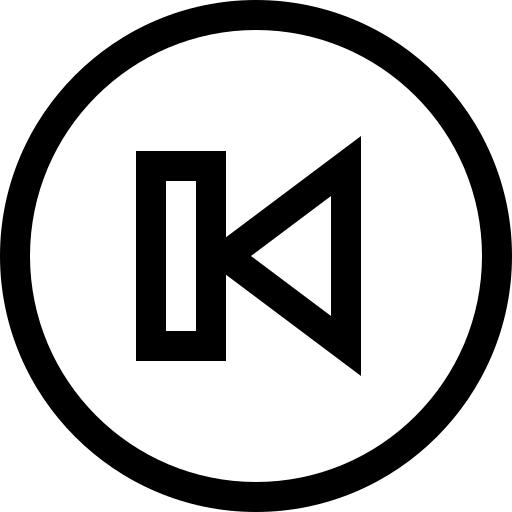
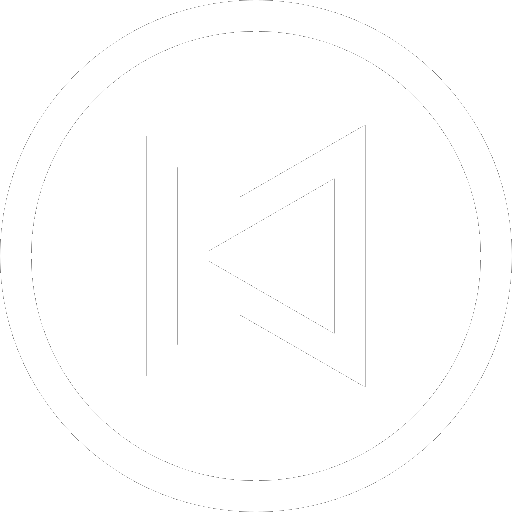
Is now dark mode

Changed region(s): [[0.0, 0.0, 1.0, 1.0], [0.25, 0.25, 0.7188, 0.75]]

diff --git a/src/view/css/application.css b/src/view/css/application.css
@@ -5,6 +5,7 @@
 	-fx-background-insets: 8.0px;
 	-fx-border-color: black;
 	-fx-border-radius: 4.0px;
+	-fx-background-radius: 4px;
 }
 
 .margin-8-no-border {
@@ -16,9 +17,68 @@
 .button-icon {
 	-fx-background-color: rgba(0.0,0.0,0.0,0.0);
 	-fx-border-color: rgba(0.0,0.0,0.0,0.0);
-	-fx-padding: 13.0px;
+	-fx-padding: 0px;
 }
 
 .button-icon:hover {
 	-fx-cursor: hand;
+}
+
+/*
+ * This is an adjustment of the original modena.css for a consistent dark theme.
+ * Original modena.css here: https://gist.github.com/maxd/63691840fc372f22f470.
+ * 
+ * Source: https://github.com/joffrey-bion/javafx-themes/blob/master/css/modena_dark.css
+ */
+
+/* Redefine base colors */
+.root {
+    -fx-base: rgb(50, 50, 50);
+    -fx-background: rgb(50, 50, 50);
+
+    /* make controls (buttons, thumb, etc.) slightly lighter */
+    -fx-color: derive(-fx-base, 10%);
+
+    /* text fields and table rows background */
+    -fx-control-inner-background: rgb(20, 20, 20);
+    /* version of -fx-control-inner-background for alternative rows */
+    -fx-control-inner-background-alt: derive(-fx-control-inner-background, 2.5%);
+
+    /* text colors depending on background's brightness */
+    -fx-light-text-color: rgb(220, 220, 220);
+    -fx-mid-text-color: rgb(100, 100, 100);
+    -fx-dark-text-color: rgb(20, 20, 20);
+
+    /* A bright blue for highlighting/accenting objects.  For example: selected
+     * text; selected items in menus, lists, trees, and tables; progress bars */
+    -fx-accent: rgb(0, 80, 100);
+
+    /* color of non-focused yet selected elements */
+    -fx-selection-bar-non-focused: rgb(50, 50, 50);
+}
+
+/* Fix derived prompt color for text fields */
+.text-input {
+    -fx-prompt-text-fill: derive(-fx-control-inner-background, +50%);
+}
+
+/* Keep prompt invisible when focused (above color fix overrides it) */
+.text-input:focused {
+    -fx-prompt-text-fill: transparent;
+}
+
+/* Fix scroll bar buttons arrows colors */
+.scroll-bar > .increment-button > .increment-arrow,
+.scroll-bar > .decrement-button > .decrement-arrow {
+    -fx-background-color: -fx-mark-highlight-color, rgb(220, 220, 220);
+}
+
+.scroll-bar > .increment-button:hover > .increment-arrow,
+.scroll-bar > .decrement-button:hover > .decrement-arrow {
+    -fx-background-color: -fx-mark-highlight-color, rgb(240, 240, 240);
+}
+
+.scroll-bar > .increment-button:pressed > .increment-arrow,
+.scroll-bar > .decrement-button:pressed > .decrement-arrow {
+    -fx-background-color: -fx-mark-highlight-color, rgb(255, 255, 255);
 }

diff --git a/src/view/MusicPanel.java b/src/view/MusicPanel.java
@@ -50,7 +50,7 @@ public class MusicPanel extends BorderPane {
 		Label labelTimeIndicator = new Label("00:00 / 00:00");
 		
 		ProgressBar progressBar = new ProgressBar();
-		progressBar.setPrefWidth(430);
+		progressBar.setPrefWidth(410);
 		progressBar.setProgress(0);
 		
 		References.labelTimeIndicator = labelTimeIndicator;
@@ -72,6 +72,8 @@ public class MusicPanel extends BorderPane {
 	private Node createBottom() {
 		GridPane grid = new GridPane();
 		
+		GridPane checkBoxPane = new GridPane();
+		
 		CheckBox cbShuffle = new CheckBox("Shuffle");
 		cbShuffle.getStyleClass().add("margin-8-no-border");
 		
@@ -81,11 +83,14 @@ public class MusicPanel extends BorderPane {
 		References.checkBoxShuffle = cbShuffle;
 		References.checkBoxRepeat = cbRepeat;
 		
+		checkBoxPane.add(cbShuffle, 1, 1);
+		checkBoxPane.add(cbRepeat, 1, 2);
+		
 		// Buttons
 		Button bPrev = new Button();
 		ImageView imageViewPrev = new ImageView(new Image(MusicPanel.class.getResourceAsStream("../ressource/img/previous.png")));
-		imageViewPrev.setFitHeight(32);
-		imageViewPrev.setFitWidth(32);
+		imageViewPrev.setFitHeight(50);
+		imageViewPrev.setFitWidth(50);
 		imageViewPrev.setPreserveRatio(true);
 		bPrev.setGraphic(imageViewPrev);
 		bPrev.getStyleClass().addAll("margin-8", "button-icon");
@@ -93,26 +98,18 @@ public class MusicPanel extends BorderPane {
 		
 		Button bPlay = new Button();
 		ImageView imageViewPlay = new ImageView(new Image(MusicPanel.class.getResourceAsStream("../ressource/img/play.png")));
-		imageViewPlay.setFitHeight(32);
-		imageViewPlay.setFitWidth(32);
+		imageViewPlay.setFitHeight(50);
+		imageViewPlay.setFitWidth(50);
 		imageViewPlay.setPreserveRatio(true);
 		bPlay.setGraphic(imageViewPlay);
 		bPlay.getStyleClass().addAll("margin-8", "button-icon");
 		bPlay.setOnAction(new PlayActionHandler());
-		
-		Button bPause = new Button();
-		ImageView imageViewPause = new ImageView(new Image(MusicPanel.class.getResourceAsStream("../ressource/img/pause.png")));
-		imageViewPause.setFitHeight(32);
-		imageViewPause.setFitWidth(32);
-		imageViewPause.setPreserveRatio(true);
-		bPause.setGraphic(imageViewPause);
-		bPause.getStyleClass().addAll("margin-8", "button-icon");
-		bPause.setOnAction(new PauseActionHandler());
+		References.bPlay = bPlay;
 		
 		Button bNext = new Button();
 		ImageView imageViewNext = new ImageView(new Image(MusicPanel.class.getResourceAsStream("../ressource/img/next.png")));
-		imageViewNext.setFitHeight(32);
-		imageViewNext.setFitWidth(32);
+		imageViewNext.setFitHeight(50);
+		imageViewNext.setFitWidth(50);
 		imageViewNext.setPreserveRatio(true);
 		bNext.setGraphic(imageViewNext);
 		bNext.getStyleClass().addAll("margin-8", "button-icon");
@@ -126,17 +123,15 @@ public class MusicPanel extends BorderPane {
 		References.volumeSlider = volumeSlider;
 		
 		volumeSlider.valueProperty().addListener(new VolumeChangeListener());
-		volumeSlider.setValue(50);
+		volumeSlider.setValue(30);
 		
 		volumeControlPane.getChildren().addAll(volumeSliderLabel, volumeSlider);
 		
-		grid.add(cbShuffle, 1, 1);
-		grid.add(cbRepeat, 2, 1);
-		grid.add(bPrev, 1, 2);
-		grid.add(bPause, 2, 2);
-		grid.add(bPlay, 3, 2);
-		grid.add(bNext, 4, 2);
-		grid.add(volumeControlPane, 5, 2);
+		grid.add(checkBoxPane, 1, 1);
+		grid.add(bPrev, 2, 1);
+		grid.add(bPlay, 3, 1);
+		grid.add(bNext, 4, 1);
+		grid.add(volumeControlPane, 5, 1);
 		
 		grid.setAlignment(Pos.CENTER);
 		

diff --git a/src/controller/PlayActionHandler.java b/src/controller/PlayActionHandler.java
@@ -9,6 +9,7 @@ import javafx.event.EventHandler;
 import javafx.scene.control.TreeItem;
 import javafx.scene.control.TreeView;
 import javafx.scene.image.Image;
+import javafx.scene.image.ImageView;
 import javafx.scene.media.Media;
 import javafx.scene.media.MediaPlayer;
 import javafx.util.Duration;
@@ -38,6 +39,14 @@ public class PlayActionHandler implements EventHandler<ActionEvent> {
 			}
 			
 			if (!file.isDirectory()) {
+				// Change play button
+				ImageView imageView = new ImageView(new Image(PlayActionHandler.class.getResourceAsStream("../ressource/img/pause.png")));
+				imageView.setFitHeight(50);
+				imageView.setFitWidth(50);
+				
+				References.bPlay.setGraphic(imageView);
+				References.bPlay.setOnAction(new PauseActionHandler());
+				
 				// Stop the current playing media
 				if (References.mediaPlayer != null) {
 					if(References.mediaPlayer.getStatus().equals(MediaPlayer.Status.PAUSED)) {

diff --git a/src/controller/PauseActionHandler.java b/src/controller/PauseActionHandler.java
@@ -2,14 +2,25 @@ package controller;
 
 import javafx.event.ActionEvent;
 import javafx.event.EventHandler;
+import javafx.scene.image.Image;
+import javafx.scene.image.ImageView;
 import ressource.References;
+import view.MusicPanel;
 
 public class PauseActionHandler implements EventHandler<ActionEvent> {
 
 	@Override
 	public void handle(ActionEvent event) {
-		if(References.mediaPlayer != null)
+		if(References.mediaPlayer != null) {
+			ImageView imageView = new ImageView(new Image(PlayActionHandler.class.getResourceAsStream("../ressource/img/play.png")));
+			imageView.setFitHeight(50);
+			imageView.setFitWidth(50);
+			
+			References.bPlay.setGraphic(imageView);
+			References.bPlay.setOnAction(new PlayActionHandler());
 			References.mediaPlayer.pause();
+		}
+			
 	}
 
 }

diff --git a/src/view/Main.java b/src/view/Main.java
@@ -12,15 +12,15 @@ public class Main extends Application {
 		try {
 			References.stage = stage;
 			MusicBorderPain root = new MusicBorderPain();
-			Scene scene = new Scene(root, 800, 600);
+			Scene scene = new Scene(root, 750, 550);
 			scene.getStylesheets().add(getClass().getResource("css/application.css").toExternalForm());
 			stage.setTitle("Soumd Symstem");
 			stage.setScene(scene);
 			stage.getIcons().add(new Image(Main.class.getResourceAsStream("../ressource/img/chems.png")));
 			stage.show();
 			
-			stage.setMinWidth(750);
-			stage.setMinHeight(650);
+			stage.setMinWidth(650);
+			stage.setMinHeight(550);
 			
 			stage.setOnHiding(event -> {
 				System.out.println("Stopping watchservice");

diff --git a/src/ressource/References.java b/src/ressource/References.java
@@ -1,5 +1,6 @@
 package ressource;
 
+import javafx.scene.control.Button;
 import javafx.scene.control.CheckBox;
 import javafx.scene.control.Label;
 import javafx.scene.control.ProgressBar;
@@ -22,6 +23,8 @@ public class References {
 	public static Slider volumeSlider = null;
 	
 	public static FileTreeItem currentlyPlayingItem = null;
+	
+	public static Button bPlay = null;
 	
 	public static Label songPlayingTitleLabel = null;
 	public static Label songPlayingArtistLabel = null;
